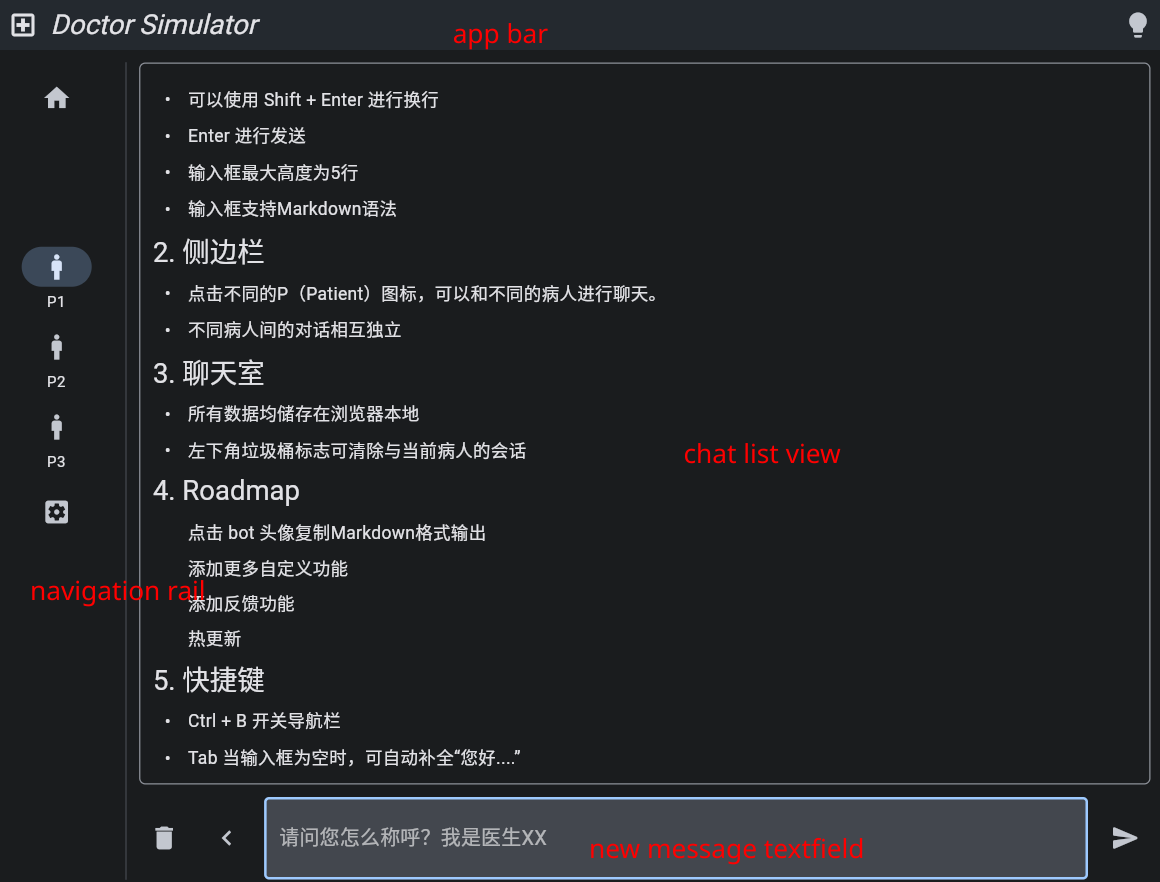
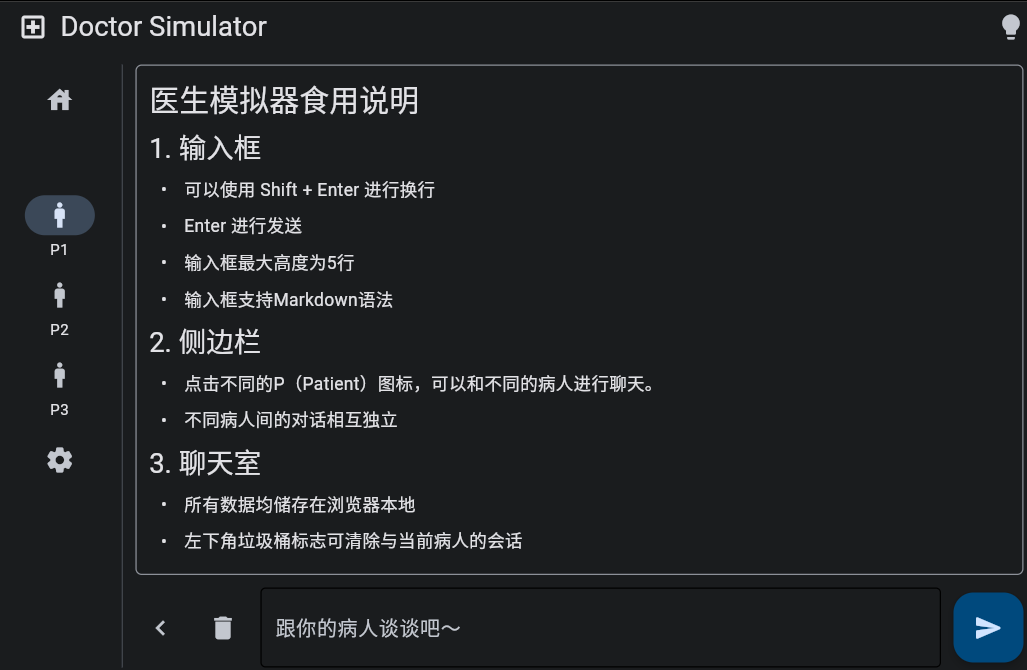
更新README

diff --git a/README.md b/README.md
@@ -45,9 +45,12 @@ python main.py
 
 2. 软件最初是从借鉴[官方Demo](https://flet.dev/docs/tutorials/python-realtime-chat)开始的，最然后来对整个软件进行了从同步到异步的改写，然而刀剑不利，斧凿不工，代码中仍有馀迹。
 
-3. 软件布局:总共有四个主要区域,由于开始设计时没有想好，navigation rail 和 app bar （组件名称）都是后来添加，代码布局可能会部分错乱，在下已尽力写好注释。
-![软件截图](/assets/img/1.png)
+3. 软件布局:总共有四个主要区域。~~由于开始设计时没有想好，navigation rail 和 app bar （组件名称）都是后来添加，代码布局可能会部分错乱，在下已尽力写好注释。~~
 
+![软件截图](/assets/img/1.png)
+（桌面端，暗色主题）
+![软件截图](/assets/img/6.png)
+（移动端，亮色主题）
 
 
 
